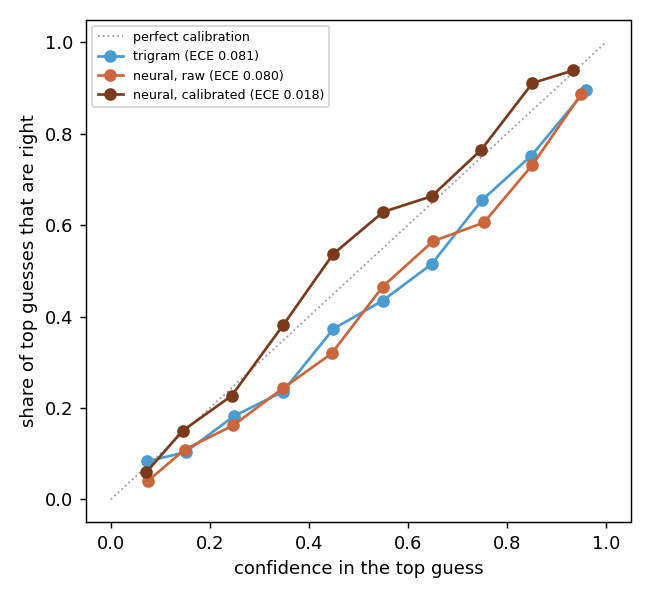
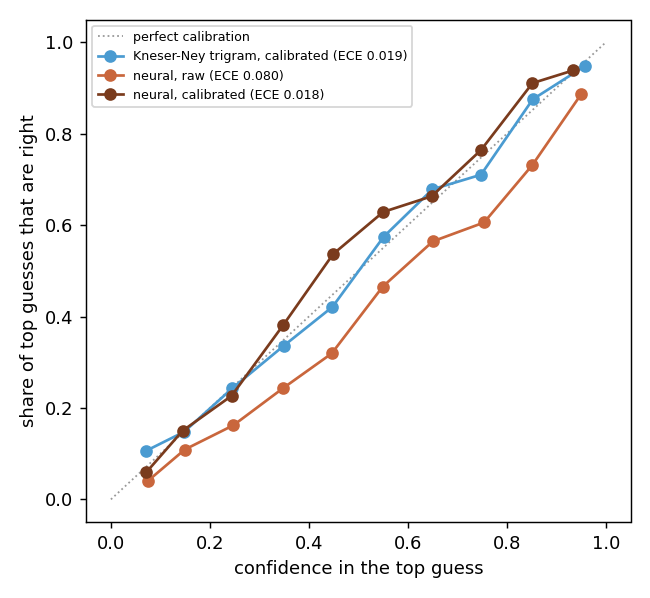
fix: milestone 3 measured against the Kneser-Ney trigram
Milestone 2's new Kneser-Ney trigram (42.2% top-1) is the best n-gram, so it
is now the bar, the mixture partner and the residual prior. Neural model
alone 32.2% (-10.0 points); mixture 42.4% and residual model are tied with
the n-gram. Demo app tab uses the same n-gram.

diff --git a/sequence_analysis/masked_model.py b/sequence_analysis/masked_model.py
@@ -26,7 +26,7 @@ from torch import nn
 
 import ngram
 from corpus import ROOT, ebuds, load_lines
-from ngram import WittenBell
+from ngram import KneserNey, WittenBell
 
 OUT = ROOT / "reports/milestone_3"
 DERIVED = ROOT / "data/derived"
@@ -156,8 +156,13 @@ def unigram_logp(train, vocab, pairs):
     return np.tile(np.log(p / p.sum()), (len(pairs), 1))
 
 
-def cross_fit(texts, vocab, order=3, k=5):
-    """Trigram log-probabilities for every (text, position) of texts, each scored by a model fitted without
+def best_ngram(train, vocab):
+    """The strongest n-gram in Milestone 2's restoration table: interpolated Kneser-Ney trigram."""
+    return KneserNey(train, vocab, order=3)
+
+
+def cross_fit(texts, vocab, k=5):
+    """Best-n-gram log-probabilities for every (text, position) of texts, each scored by a model fitted without
     that text, so a residual model never sees its own answer in the prior. Aligned with trials(texts)."""
     pairs = trials(texts)
     out = np.zeros((len(pairs), len(vocab)))
@@ -165,7 +170,7 @@ def cross_fit(texts, vocab, order=3, k=5):
     for g in range(k):
         rest = [t for t, gg in zip(texts, group) if gg != g]
         rows = [r for r, (t, _) in enumerate(pairs) if group[t] == g]
-        out[rows] = ngram_logp(WittenBell(rest, vocab, order, backoff=True), vocab, texts, [pairs[r] for r in rows])
+        out[rows] = ngram_logp(best_ngram(rest, vocab), vocab, texts, [pairs[r] for r in rows])
     return out
 
 
@@ -279,9 +284,11 @@ def evaluate(texts, vocab, seeds, grid, log=print):
 
         add("unigram", unigram_logp(train, vocab, pairs), unigram_logp(fit, vocab, val_pairs))
         ng = {}
-        for n, name in ((2, "bigram"), (3, "trigram")):
-            test_lp = ngram_logp(WittenBell(train, vocab, n, backoff=True), vocab, test, pairs)
-            val_lp = ngram_logp(WittenBell(fit, vocab, n, backoff=True), vocab, val, val_pairs)
+        makers = {"bigram": lambda tr: WittenBell(tr, vocab, 2, backoff=True), "trigram": lambda tr: WittenBell(tr, vocab, 3, backoff=True),
+                  "kn_trigram": lambda tr: best_ngram(tr, vocab)}
+        for name, make in makers.items():
+            test_lp = ngram_logp(make(train), vocab, test, pairs)
+            val_lp = ngram_logp(make(fit), vocab, val, val_pairs)
             T = fit_temperature(val_lp, val_y)
             info["temperatures"].setdefault(name, []).append(T)
             add(name, test_lp, val_lp)
@@ -298,7 +305,7 @@ def evaluate(texts, vocab, seeds, grid, log=print):
         cfg = grid[best_i]
         info["chosen"].append({k: cfg[k] for k in ("arch", "d", "layers")})
 
-        tri_test, tri_val = ng["trigram"][2], ng["trigram"][3]
+        tri_test, tri_val = ng["kn_trigram"][2], ng["kn_trigram"][3]
         prior_fit, prior_train = cross_fit(fit, vocab), cross_fit(train, vocab)
         for s in seeds:
             model, tokens, ep = first if s == seeds[0] else train_net(fit, val, vocab, 1000 * s + f, cfg)
@@ -310,10 +317,10 @@ def evaluate(texts, vocab, seeds, grid, log=print):
             info["temperatures"].setdefault("net", []).append(T)
             add(f"net_seed{s}", log_softmax(test_lg), log_softmax(val_lg))
             add(f"net_seed{s}_calibrated", log_softmax(test_lg, T), log_softmax(val_lg, T))
-            lam, Tm = fit_mixture(log_softmax(val_lg, T), ng["trigram"][1], val_y)
+            lam, Tm = fit_mixture(log_softmax(val_lg, T), ng["kn_trigram"][1], val_y)
             info["mixture_lambda"].append(lam)
-            add(f"mixture_seed{s}", log_softmax(mix(log_softmax(test_lg, T), ng["trigram"][0], lam), Tm),
-                log_softmax(mix(log_softmax(val_lg, T), ng["trigram"][1], lam), Tm))
+            add(f"mixture_seed{s}", log_softmax(mix(log_softmax(test_lg, T), ng["kn_trigram"][0], lam), Tm),
+                log_softmax(mix(log_softmax(val_lg, T), ng["kn_trigram"][1], lam), Tm))
 
             res, res_tok, ep_r = train_net(fit, val, vocab, 1000 * s + f, RESIDUAL, prior=prior_fit, val_prior=tri_val)
             val_r = net_logits(res, res_tok, val, val_pairs, tri_val)
@@ -333,7 +340,8 @@ FAMILIES = {"net": "net_seed{}", "net_calibrated": "net_seed{}_calibrated", "mix
 
 def collapse(outcomes, seeds):
     """Mean and sd over seeds for the network rows; single values for the n-gram rows."""
-    res = {name: summary(outcomes[name]) for name in ("unigram", "bigram", "bigram_calibrated", "trigram", "trigram_calibrated")}
+    res = {name: summary(outcomes[name]) for name in ("unigram", "bigram", "bigram_calibrated", "trigram", "trigram_calibrated",
+                                                       "kn_trigram", "kn_trigram_calibrated")}
     for fam, pattern in FAMILIES.items():
         per = [summary(outcomes[pattern.format(s)]) for s in seeds]
         res[fam] = {k: float(np.mean([p[k] for p in per])) for k in per[0]} | {f"{k}_sd": float(np.std([p[k] for p in per])) for k in per[0]}
@@ -342,14 +350,15 @@ def collapse(outcomes, seeds):
 
 def ngram_partitions(texts, vocab, partitions=5):
     """Top-1 / top-5 of the bigram and trigram over several random 5-fold partitions."""
-    out = {"bigram": {"top1": [], "top5": []}, "trigram": {"top1": [], "top5": []}}
+    out = {"bigram": {"top1": [], "top5": []}, "trigram": {"top1": [], "top5": []}, "kn_trigram": {"top1": [], "top5": []}}
     idx = {s: i for i, s in enumerate(vocab)}
     for p in range(partitions):
-        for n, name in ((2, "bigram"), (3, "trigram")):
+        for name, make in (("bigram", lambda tr: WittenBell(tr, vocab, 2, backoff=True)), ("trigram", lambda tr: WittenBell(tr, vocab, 3, backoff=True)),
+                           ("kn_trigram", lambda tr: best_ngram(tr, vocab))):
             hit1 = hit5 = total = 0
             for train, test in ngram.folds(texts, seed=p):
                 pairs = trials(test)
-                rank = np.argsort(-ngram.candidate_scores(WittenBell(train, vocab, n, backoff=True), vocab, test, pairs), 1, kind="stable")
+                rank = np.argsort(-ngram.candidate_scores(make(train), vocab, test, pairs), 1, kind="stable")
                 y = np.array([idx[test[k][j]] for k, j in pairs])
                 hit1 += (rank[:, 0] == y).sum(); hit5 += (rank[:, :5] == y[:, None]).any(1).sum(); total += len(y)
             out[name]["top1"].append(hit1 / total); out[name]["top5"].append(hit5 / total)
@@ -427,10 +436,11 @@ def pct(x):
 
 
 LABELS = {"unigram": "Most frequent signs (no context)", "bigram": "Bigram (Milestone 2)", "bigram_calibrated": "Bigram, calibrated",
-          "trigram": "Trigram (best n-gram, Milestone 2)", "trigram_calibrated": "Trigram, calibrated",
+          "trigram": "Witten-Bell trigram (Milestone 2)", "trigram_calibrated": "Witten-Bell trigram, calibrated",
+          "kn_trigram": "Kneser-Ney trigram (best n-gram, Milestone 2)", "kn_trigram_calibrated": "Kneser-Ney trigram, calibrated",
           "net": "Neural model, raw", "net_calibrated": "Neural model, calibrated",
-          "mixture": "Mixture of neural model and trigram, fitted weight, calibrated",
-          "residual_calibrated": "Residual model: trigram + learned correction, calibrated"}
+          "mixture": "Mixture of neural model and Kneser-Ney trigram, fitted weight, calibrated",
+          "residual_calibrated": "Residual model: Kneser-Ney trigram + learned correction, calibrated"}
 
 
 def write_report(res):
@@ -453,12 +463,12 @@ def write_report(res):
         "Small neural models are trained to fill one hidden sign from the rest of its inscription and compared with the "
         "Milestone 2 n-grams on the same task. All models use the same 5 folds of the "
         f"{s['texts']:,} EBUDS texts and score the same {s['trials']:,} trials: every position of every held-out text, ranked "
-        f"over the same {s['candidates']} candidate signs. **The bar is the best n-gram, the trigram**, not the bigram.",
+        f"over the same {s['candidates']} candidate signs. **The bar is the best n-gram, the Kneser-Ney trigram**, not the bigram.",
         "",
-        f"The bigram and trigram reproduce Milestone 2 (top-1 {pct(r['bigram']['top1'])} and {pct(r['trigram']['top1'])}; "
-        f"Milestone 2: {pct(res['milestone_2_restoration']['top1'])} "
-        f"and {pct(m2['witten-bell backoff n=3']['top1'])}; the small differences are tied candidates, now broken by sign number "
-        "so the ranking is the same on every machine), so the folds, candidates and trials are the same.",
+        f"The n-grams reproduce Milestone 2 (top-1 bigram {pct(r['bigram']['top1'])}, Witten-Bell trigram {pct(r['trigram']['top1'])}, "
+        f"Kneser-Ney trigram {pct(r['kn_trigram']['top1'])}; Milestone 2: {pct(res['milestone_2_restoration']['top1'])}, "
+        f"{pct(m2['witten-bell backoff n=3']['top1'])}, {pct(m2['kneser-ney n=3']['top1'])}), so the folds, candidates and trials are the "
+        "same. Tied candidates are broken by sign number, so the ranking is the same on every machine.",
         "",
         "## Results",
         "",
@@ -469,14 +479,15 @@ def write_report(res):
         f"Neural rows: mean ± sd over {len(s['seeds'])} training seeds. Conformal sets aim to contain the true sign "
         f"{pct(1 - ALPHA)} of the time; a smaller set at the same coverage is the more useful model.",
         "",
-        "Top-1 difference from the trigram, in points, with a 95% interval from resampling whole test texts (per-trial hits "
+        "Top-1 difference from the Kneser-Ney trigram, in points, with a 95% interval from resampling whole test texts (per-trial hits "
         "averaged over seeds):",
         "",
         "| Model | Difference | 95% interval |",
         "|---|---|---|",
         *diffs,
         "",
-        f"Over {len(part['trigram']['top1'])} random fold partitions the n-grams vary little: trigram top-1 "
+        f"Over {len(part['trigram']['top1'])} random fold partitions the n-grams vary little: Kneser-Ney trigram top-1 "
+        f"{pct(np.mean(part['kn_trigram']['top1']))} ± {100 * np.std(part['kn_trigram']['top1']):.1f}, Witten-Bell trigram "
         f"{pct(np.mean(part['trigram']['top1']))} ± {100 * np.std(part['trigram']['top1']):.1f}, bigram "
         f"{pct(np.mean(part['bigram']['top1']))} ± {100 * np.std(part['bigram']['top1']):.1f}. The neural rows use the first "
         "partition only.",
@@ -521,9 +532,9 @@ def write_report(res):
         f"- Mixture: weight on the neural model fitted on the inner split (median {s['median_mixture_lambda']}), then a "
         "temperature after mixing.",
         "- Residual model: a width-32, one-layer transformer whose output layer starts at zero and is added to the trigram's "
-        "log-probabilities, so it starts exactly at the trigram and can only learn corrections. Its training priors come from "
-        "trigrams fitted without the text being predicted (5-fold cross-fitting inside the training fold).",
-        f"- Temperatures (median): bigram {s['median_temperature']['bigram']}, trigram {s['median_temperature']['trigram']}, "
+        "log-probabilities, so it starts exactly at the Kneser-Ney trigram and can only learn corrections. Its training priors come "
+        "from trigrams fitted without the text being predicted (5-fold cross-fitting inside the training fold).",
+        f"- Temperatures (median): bigram {s['median_temperature']['bigram']}, Kneser-Ney trigram {s['median_temperature']['kn_trigram']}, "
         f"neural {s['median_temperature']['net']}. AdamW, learning rate {BASE['lr']}, weight decay {BASE['weight_decay']}, "
         f"dropout {BASE['dropout']}. Trained on CPU; wall-clock time for the whole run {s['runtime_min']:.0f} minutes.",
         "",
@@ -536,7 +547,7 @@ def verdict(diffs):
     def say(fam):
         d, lo, hi = (100 * x for x in diffs[fam])
         how = "reliably better than" if lo > 0 else "reliably worse than" if hi < 0 else "statistically tied with"
-        return f"{LABELS[fam].split(',')[0]} is {how} the trigram ({d:+.1f} points, 95% interval {lo:+.1f} to {hi:+.1f})"
+        return f"{LABELS[fam].split(',')[0]} is {how} the Kneser-Ney trigram ({d:+.1f} points, 95% interval {lo:+.1f} to {hi:+.1f})"
     return ("; ".join(say(f) for f in diffs) + ". The neural model cannot replace the n-gram on about 1,200 short training "
             "texts per fold, and what it adds on top is small: the neighbouring signs carry almost everything a model can use.")
 
@@ -600,17 +611,18 @@ if __name__ == "__main__":
     m2 = json.loads(M2_RESULTS.read_text())
     res = {"models": collapse(outcomes, seeds), "milestone_2_restoration": m2["restoration"],
            "milestone_2_restoration_by_model": m2["restoration_by_model"], "chosen_configurations": info["chosen"]}
-    for name, ref in (("bigram", m2["restoration"]), ("trigram", m2["restoration_by_model"]["witten-bell backoff n=3"])):
+    for name, ref in (("bigram", m2["restoration"]), ("trigram", m2["restoration_by_model"]["witten-bell backoff n=3"]),
+                      ("kn_trigram", m2["restoration_by_model"]["kneser-ney n=3"])):
         # ponytail: Milestone 2 broke tied rankings with numpy's default (CPU-dependent) sort; 0.002 = 14 of 7,000 trials
         assert all(abs(res["models"][name][k] - ref[k]) < 0.002 for k in ("top1", "top5")), f"{name} does not reproduce Milestone 2"
-    tri = outcomes["trigram"]["hit1"].astype(float)
+    tri = outcomes["kn_trigram"]["hit1"].astype(float)
     res["difference_top1_vs_trigram"] = {fam: paired_bootstrap(np.mean([outcomes[p.format(s)]["hit1"] for s in seeds], 0), tri, groups)
                                          for fam, p in FAMILIES.items() if fam != "net"}
     res["verdict"] = verdict(res["difference_top1_vs_trigram"])
     res["ngram_partitions"] = ngram_partitions(texts, vocab, partitions=2 if args.quick else 5)
 
     OUT.mkdir(parents=True, exist_ok=True)
-    reliability(outcomes, [("trigram", "trigram", "#4a9bd1"), ("net_seed0", "neural, raw", "#c9663c"),
+    reliability(outcomes, [("kn_trigram_calibrated", "Kneser-Ney trigram, calibrated", "#4a9bd1"), ("net_seed0", "neural, raw", "#c9663c"),
                            ("net_seed0_calibrated", "neural, calibrated", "#7a3b1d")], OUT / "reliability.png")
 
     top = Counter(json.dumps(c, sort_keys=True) for c in info["chosen"]).most_common(1)[0][0]

diff --git a/app.py b/app.py
@@ -479,12 +479,12 @@ def milestone2():
 
 @st.cache_resource
 def gap_models():
-    """The neural masked-sign model and a trigram, both trained on every EBUDS text, plus the damaged corpus texts."""
+    """The neural masked-sign model and the best n-gram (Kneser-Ney trigram), both trained on every EBUDS text, plus the damaged corpus texts."""
     model, tokens, temperature = masked_model.load()
     lines = corpus.load_lines()
     texts, _ = corpus.ebuds(lines)
     vocab = sorted({s for t in texts for s in t})
-    return model, tokens, temperature, ngram.WittenBell(texts, vocab, 3, backoff=True), vocab, masked_model.damaged_texts(lines, vocab)
+    return model, tokens, temperature, masked_model.best_ngram(texts, vocab), vocab, masked_model.damaged_texts(lines, vocab)
 
 
 def guess_cards(top):
@@ -510,7 +510,7 @@ def milestone3():
     model, tokens, temperature, trigram, vocab, damaged = gap_models()
     res = json.loads((M3 / "results.json").read_text())
     st.html('<p class="lede">Some corpus inscriptions have a sign that can no longer be read. Two models suggest what it was: the '
-            'Milestone 2 trigram, which looks at the neighbouring signs, and a small neural model that reads the whole inscription. '
+            'best Milestone 2 n-gram, which looks at the neighbouring signs, and a small neural model that reads the whole inscription. '
             'Nobody knows the right answers for these texts, so the suggestions are candidates with a confidence, not readings.</p>')
     if "damaged" not in st.session_state:
         new_damaged(len(damaged))
@@ -527,7 +527,7 @@ def milestone3():
     left, right = st.columns(2, gap="large")
     left.html('<div class="label">Neural model: reads the whole inscription</div>' + guess_cards(net[:5])
               + f'<p class="lede">Its 90% probability set holds {set90(np.array([p for _, p in net]))} signs.</p>')
-    right.html('<div class="label">Trigram: reads the neighbouring signs</div>' + guess_cards([(vocab[k], bi[k]) for k in order[:5]])
+    right.html('<div class="label">Best n-gram: reads the neighbouring signs</div>' + guess_cards([(vocab[k], bi[k]) for k in order[:5]])
                + f'<p class="lede">Its 90% probability set holds {set90(bi)} signs.</p>')
 
     section("Try your own", "Type signs in reading order (first-read sign first) and a ? for each missing sign.")
@@ -546,9 +546,9 @@ def milestone3():
 
     r = res["models"]
     section("How good is it", "Measured the same way as Milestone 2: every sign of every held-out text hidden in turn, 5-fold.")
-    st.html(stats(("Trigram, first guess right", f"{r['trigram']['top1']:.1%}"),
+    st.html(stats(("Best n-gram, first guess right", f"{r['kn_trigram']['top1']:.1%}"),
                   ("Neural model alone", f"{r['net_calibrated']['top1']:.1%}", f"± {100 * r['net_calibrated']['top1_sd']:.1f}"),
-                  ("Neural + trigram mixture", f"{r['mixture']['top1']:.1%}", f"± {100 * r['mixture']['top1_sd']:.1f}"),
+                  ("Neural + n-gram mixture", f"{r['mixture']['top1']:.1%}", f"± {100 * r['mixture']['top1_sd']:.1f}"),
                   ("Mixture calibration error", f"{r['mixture']['ece_top1']:.3f}", "0 is perfect")))
     st.caption(res["verdict"] + " Full report: reports/milestone_3/milestone_3_report.md")
 

diff --git a/reports/milestone_3/milestone_3_report.md b/reports/milestone_3/milestone_3_report.md
@@ -1,8 +1,8 @@
 # Milestone 3 report: predicting a hidden sign
 
-Small neural models are trained to fill one hidden sign from the rest of its inscription and compared with the Milestone 2 n-grams on the same task. All models use the same 5 folds of the 1,548 EBUDS texts and score the same 7,000 trials: every position of every held-out text, ranked over the same 377 candidate signs. **The bar is the best n-gram, the trigram**, not the bigram.
+Small neural models are trained to fill one hidden sign from the rest of its inscription and compared with the Milestone 2 n-grams on the same task. All models use the same 5 folds of the 1,548 EBUDS texts and score the same 7,000 trials: every position of every held-out text, ranked over the same 377 candidate signs. **The bar is the best n-gram, the Kneser-Ney trigram**, not the bigram.
 
-The bigram and trigram reproduce Milestone 2 (top-1 38.0% and 40.2%; Milestone 2: 38.0% and 40.1%; the small differences are tied candidates, now broken by sign number so the ranking is the same on every machine), so the folds, candidates and trials are the same.
+The n-grams reproduce Milestone 2 (top-1 bigram 38.0%, Witten-Bell trigram 40.2%, Kneser-Ney trigram 42.2%; Milestone 2: 38.0%, 40.2%, 42.2%), so the folds, candidates and trials are the same. Tied candidates are broken by sign number, so the ranking is the same on every machine.
 
 ## Results
 
@@ -11,28 +11,30 @@ The bigram and trigram reproduce Milestone 2 (top-1 38.0% and 40.2%; Milestone 2
 | Most frequent signs (no context) | 10.2% | 23.5% | 6.77 | 90.4%, 134 signs | 90.0%, 131 signs | 0.003 |
 | Bigram (Milestone 2) | 38.0% | 62.4% | 4.40 | 90.4%, 71 signs | 91.1%, 107 signs | 0.023 |
 | Bigram, calibrated | 38.0% | 62.4% | 4.39 | 90.3%, 71 signs | 91.1%, 106 signs | 0.027 |
-| Trigram (best n-gram, Milestone 2) | 40.2% | 63.0% | 4.40 | 89.9%, 68 signs | 90.6%, 132 signs | 0.081 |
-| Trigram, calibrated | 40.2% | 63.0% | 4.33 | 89.8%, 67 signs | 90.4%, 125 signs | 0.024 |
+| Witten-Bell trigram (Milestone 2) | 40.2% | 63.0% | 4.40 | 89.9%, 68 signs | 90.6%, 132 signs | 0.081 |
+| Witten-Bell trigram, calibrated | 40.2% | 63.0% | 4.33 | 89.8%, 67 signs | 90.4%, 125 signs | 0.024 |
+| Kneser-Ney trigram (best n-gram, Milestone 2) | 42.2% | 64.5% | 4.20 | 90.4%, 65 signs | 89.8%, 178 signs | 0.078 |
+| Kneser-Ney trigram, calibrated | 42.2% | 64.5% | 4.15 | 90.4%, 63 signs | 89.8%, 169 signs | 0.019 |
 | Neural model, raw | 32.2% ± 0.5 | 53.0% ± 1.1 | 5.14 | 90.0%, 93 signs | 89.2%, 103 signs | 0.065 |
 | Neural model, calibrated | 32.2% ± 0.5 | 53.0% ± 1.1 | 5.03 | 90.1%, 96 signs | 89.8%, 101 signs | 0.025 |
-| Mixture of neural model and trigram, fitted weight, calibrated | 40.9% ± 0.1 | 63.6% ± 0.2 | 4.25 | 89.9%, 63 signs | 89.7%, 91 signs | 0.027 |
-| Residual model: trigram + learned correction, calibrated | 40.3% ± 0.2 | 63.1% ± 0.0 | 4.32 | 89.9%, 68 signs | 90.6%, 125 signs | 0.025 |
+| Mixture of neural model and Kneser-Ney trigram, fitted weight, calibrated | 42.4% ± 0.1 | 64.8% ± 0.1 | 4.11 | 90.2%, 59 signs | 89.4%, 125 signs | 0.019 |
+| Residual model: Kneser-Ney trigram + learned correction, calibrated | 42.1% ± 0.1 | 64.6% ± 0.1 | 4.14 | 90.3%, 62 signs | 90.0%, 167 signs | 0.019 |
 
 Neural rows: mean ± sd over 3 training seeds. Conformal sets aim to contain the true sign 90.0% of the time; a smaller set at the same coverage is the more useful model.
 
-Top-1 difference from the trigram, in points, with a 95% interval from resampling whole test texts (per-trial hits averaged over seeds):
+Top-1 difference from the Kneser-Ney trigram, in points, with a 95% interval from resampling whole test texts (per-trial hits averaged over seeds):
 
 | Model | Difference | 95% interval |
 |---|---|---|
-| Neural model, calibrated | -8.0 | [-9.0, -7.0] |
-| Mixture of neural model and trigram, fitted weight, calibrated | +0.6 | [+0.3, +1.0] |
-| Residual model: trigram + learned correction, calibrated | +0.0 | [-0.3, +0.3] |
+| Neural model, calibrated | -10.0 | [-11.0, -9.0] |
+| Mixture of neural model and Kneser-Ney trigram, fitted weight, calibrated | +0.2 | [-0.1, +0.4] |
+| Residual model: Kneser-Ney trigram + learned correction, calibrated | -0.1 | [-0.3, +0.2] |
 
-Over 5 random fold partitions the n-grams vary little: trigram top-1 40.3% ± 0.3, bigram 38.2% ± 0.2. The neural rows use the first partition only.
+Over 5 random fold partitions the n-grams vary little: Kneser-Ney trigram top-1 42.0% ± 0.3, Witten-Bell trigram 40.3% ± 0.3, bigram 38.2% ± 0.2. The neural rows use the first partition only.
 
 ## Reading the numbers
 
-- Neural model is reliably worse than the trigram (-8.0 points, 95% interval -9.0 to -7.0); Mixture of neural model and trigram is reliably better than the trigram (+0.6 points, 95% interval +0.3 to +1.0); Residual model: trigram + learned correction is statistically tied with the trigram (+0.0 points, 95% interval -0.3 to +0.3). The neural model cannot replace the n-gram on about 1,200 short training texts per fold, and what it adds on top is small: the neighbouring signs carry almost everything a model can use.
+- Neural model is reliably worse than the Kneser-Ney trigram (-10.0 points, 95% interval -11.0 to -9.0); Mixture of neural model and Kneser-Ney trigram is statistically tied with the Kneser-Ney trigram (+0.2 points, 95% interval -0.1 to +0.4); Residual model: Kneser-Ney trigram + learned correction is statistically tied with the Kneser-Ney trigram (-0.1 points, 95% interval -0.3 to +0.2). The neural model cannot replace the n-gram on about 1,200 short training texts per fold, and what it adds on top is small: the neighbouring signs carry almost everything a model can use.
 - Calibration (the proposal's "validation confidence ratings"): ECE is the average gap between how confident the top guess is and how often it is right; 0 is perfect. `reliability.png` shows it per confidence band.
 - Conformal sets replace the earlier "90% probability mass" set, which did not contain the true sign 90% of the time and whose size could not be compared across models. They are calibrated on the inner split of each training fold with models fitted on the rest of it and applied to models retrained on the whole fold, so coverage is approximate; the measured coverage above is the check. The bigram's 90%-mass set is kept for the comparison with Yadav et al. 2010 (74%): 86.1%, mean 44 signs.
 
@@ -51,6 +53,6 @@ Several gaps are masked together and each is predicted on its own; there is no j
 ## Settings
 
 - Neural model: one configuration per fold is chosen from 8 fixed in advance (transformer or bidirectional LSTM; width 32 or 64; 1 or 2 layers), by calibrated log loss on a 10% inner split of the training fold. Chosen: transformer width 64, 2 layers (2 folds); lstm width 64, 1 layer (2 folds); lstm width 64, 2 layers (1 folds). Inputs are the signs in reading order between start and end tokens, with position counted from both ends; a context sign unseen in training becomes an unknown token. Every position of every training text is a masked example in every epoch. Early stopping on the inner split (patience 10, median 9 epochs) sets the epoch count; the model is then retrained on the whole training fold for that many epochs, so it sees the same texts as the n-grams.
-- Mixture: weight on the neural model fitted on the inner split (median 0.2), then a temperature after mixing.
-- Residual model: a width-32, one-layer transformer whose output layer starts at zero and is added to the trigram's log-probabilities, so it starts exactly at the trigram and can only learn corrections. Its training priors come from trigrams fitted without the text being predicted (5-fold cross-fitting inside the training fold).
-- Temperatures (median): bigram 1.1, trigram 1.2, neural 1.15. AdamW, learning rate 0.002, weight decay 0.01, dropout 0.2. Trained on CPU; wall-clock time for the whole run 14 minutes.
+- Mixture: weight on the neural model fitted on the inner split (median 0.15), then a temperature after mixing.
+- Residual model: a width-32, one-layer transformer whose output layer starts at zero and is added to the trigram's log-probabilities, so it starts exactly at the Kneser-Ney trigram and can only learn corrections. Its training priors come from trigrams fitted without the text being predicted (5-fold cross-fitting inside the training fold).
+- Temperatures (median): bigram 1.1, Kneser-Ney trigram 1.15, neural 1.15. AdamW, learning rate 0.002, weight decay 0.01, dropout 0.2. Trained on CPU; wall-clock time for the whole run 22 minutes.

diff --git a/README.md b/README.md
@@ -13,7 +13,7 @@ Scope and milestones: [Indus_Epigraphy_AI_Project_Proposal.md](Indus_Epigraphy_A
 |---|---|---|---|
 | 1. Seal photo to ordered sign IDs | Done on synthetic seals; does not yet work on real photographs | `grapheme_extraction/` | [report](reports/milestone_1/milestone_1_report.md), [findings](reports/milestone_1/milestone_1_findings.md) |
 | 2. Sign-sequence statistics | Done on the IM77 corpus | `sequence_analysis/` | [report](reports/milestone_2/milestone_2_report.md) |
-| 3. Masked-sign prediction | Done: neural models against the best n-gram (the trigram wins alone; a mixture adds 0.6 points) | `sequence_analysis/masked_model.py` | [report](reports/milestone_3/milestone_3_report.md) |
+| 3. Masked-sign prediction | Done: neural models against the best n-gram (Kneser-Ney trigram, 42.2%); the n-gram wins alone and a mixture only ties it | `sequence_analysis/masked_model.py` | [report](reports/milestone_3/milestone_3_report.md) |
 | 4. Decipherment-claim test harness | Done: the one runnable Sanskrit key is not distinguishable from shuffled versions of itself | `decipherment/` | [report](reports/milestone_4/milestone_4_report.md) |
 
 ## Setup
@@ -84,7 +84,7 @@ python sequence_analysis/masked_model.py                          # 5-fold evalu
 python sequence_analysis/masked_model.py predict "267 99 ? 342"    # fill gaps; reading order, ? for each missing sign
 ```
 
-Small neural models (transformer or bidirectional LSTM, chosen per fold on an inner split) read the whole inscription and rank every sign for a hidden position. They are scored on exactly the trials Milestone 2 used (every sign of every held-out text, 5-fold) against the best n-gram, the trigram, with calibrated confidences and conformal candidate sets. Result: the neural model alone gets the first guess right 32.2% of the time against the trigram's 40.2%; a fitted mixture of the two reaches 40.9%, a small but reliable gain of 0.6 points. The neighbouring signs carry almost everything a model can use. The final model is also run on the 337 corpus texts with one illegible sign.
+Small neural models (transformer or bidirectional LSTM, chosen per fold on an inner split) read the whole inscription and rank every sign for a hidden position. They are scored on exactly the trials Milestone 2 used (every sign of every held-out text, 5-fold) against the best n-gram, an interpolated Kneser-Ney trigram, with calibrated confidences and conformal candidate sets. Result: the neural model alone gets the first guess right 32.2% of the time against the n-gram's 42.2%; a fitted mixture of the two (42.4%) and a residual model are statistically tied with the n-gram. The neighbouring signs carry almost everything a model can use. The final model is also run on the 337 corpus texts with one illegible sign.
 
 ## Milestone 4: testing claimed decipherments
 
